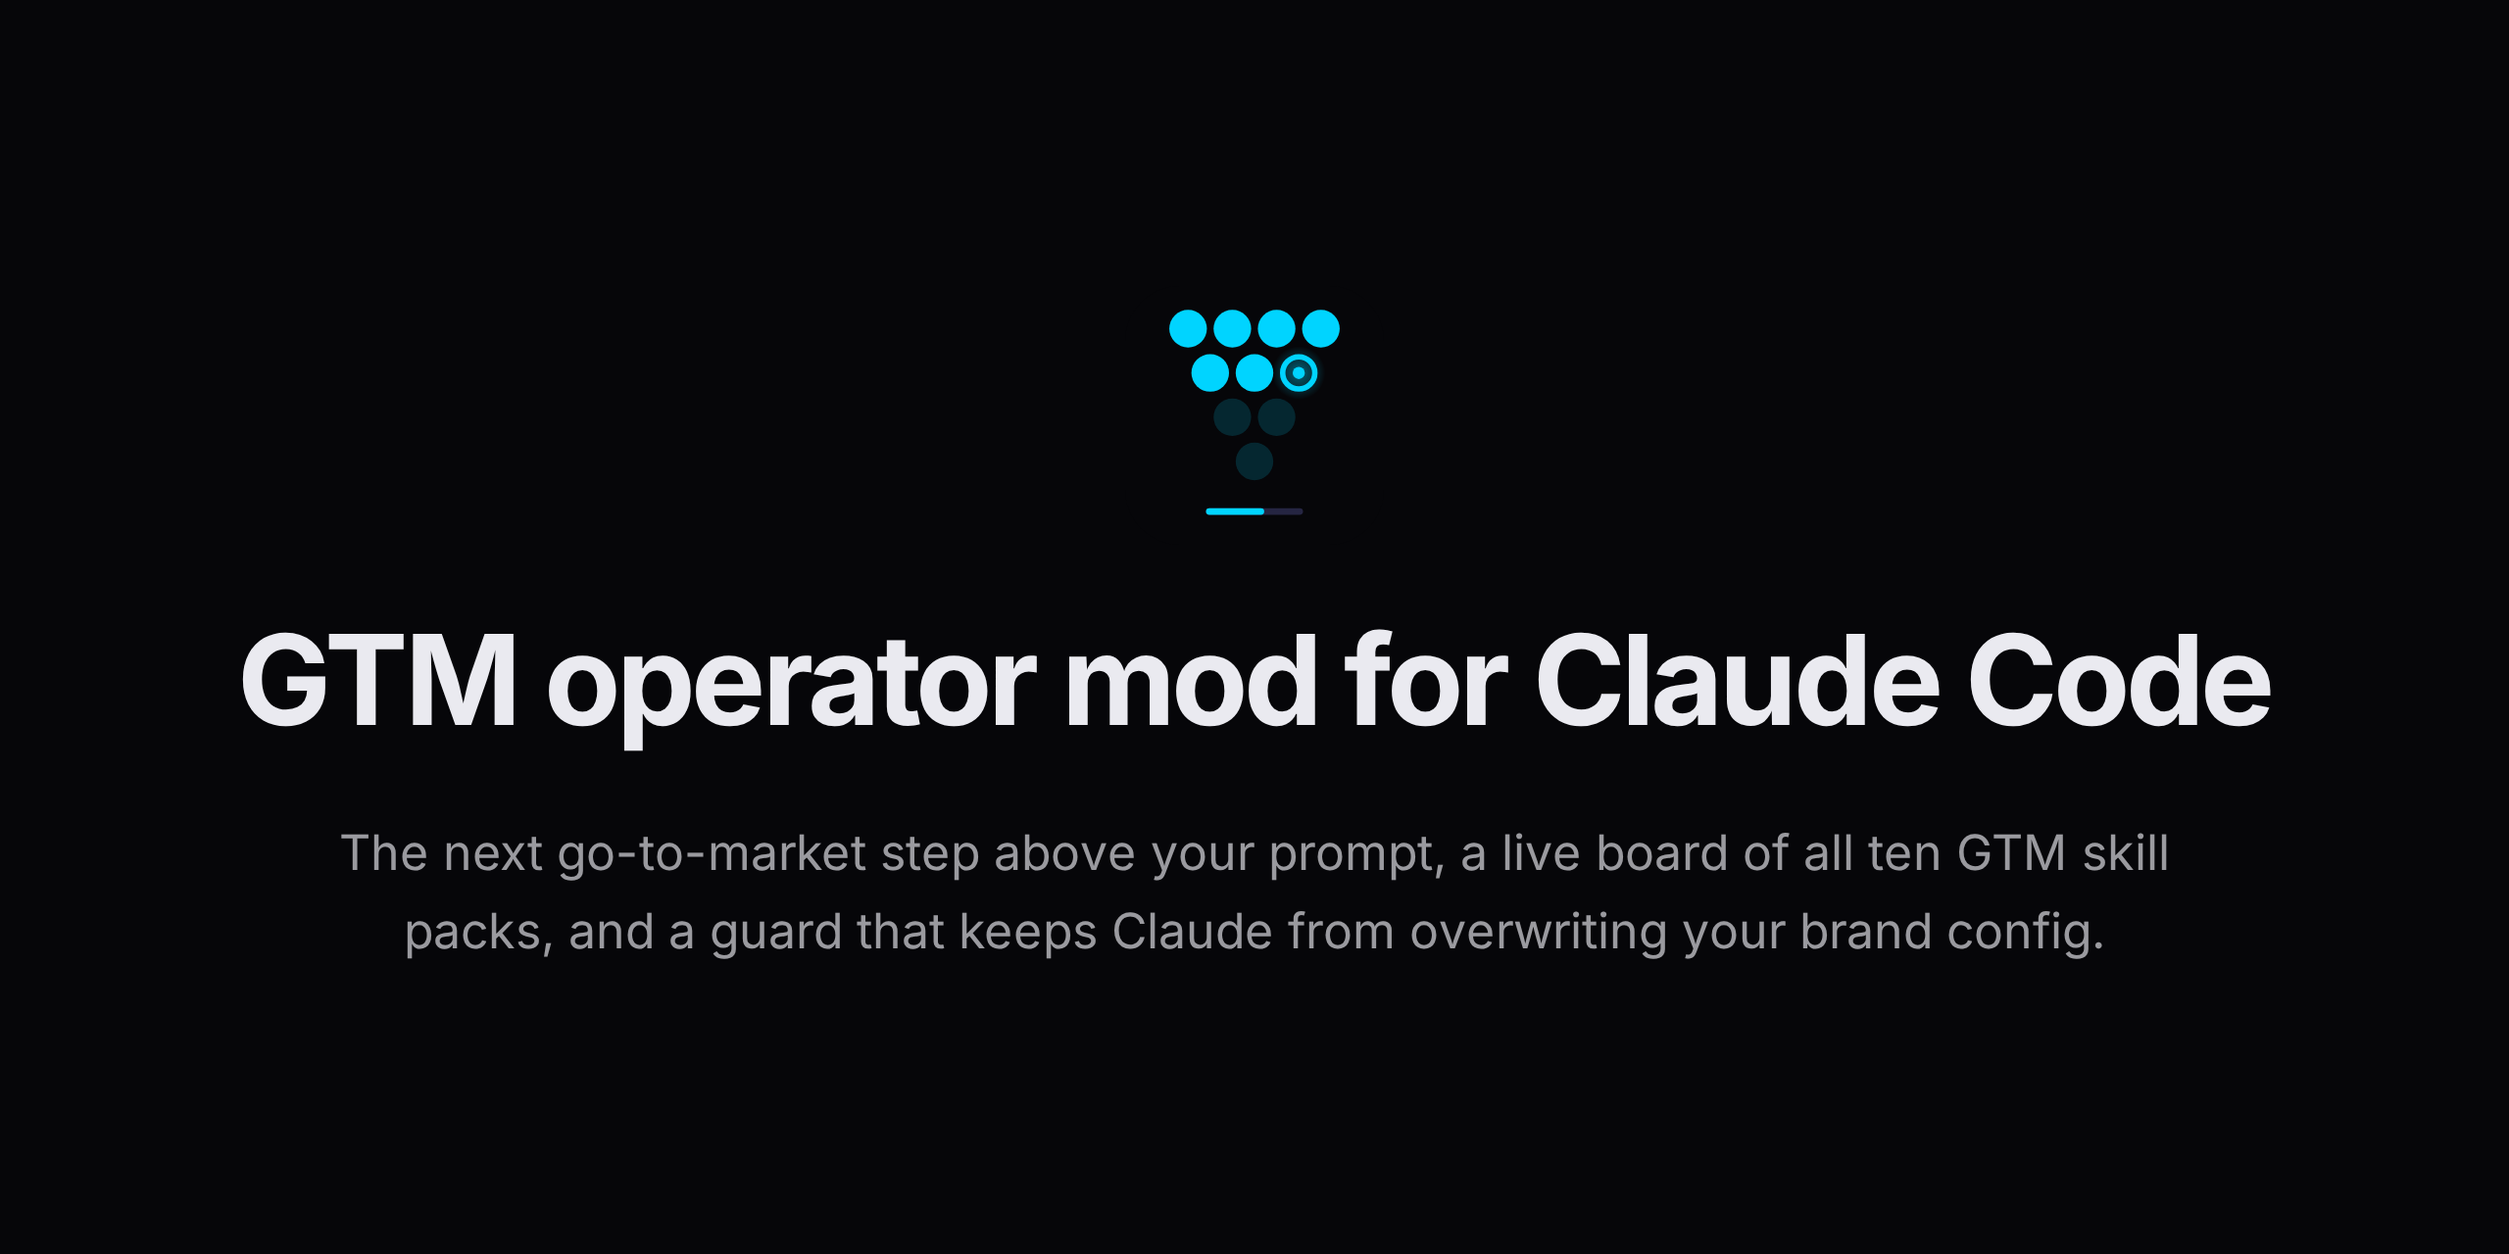
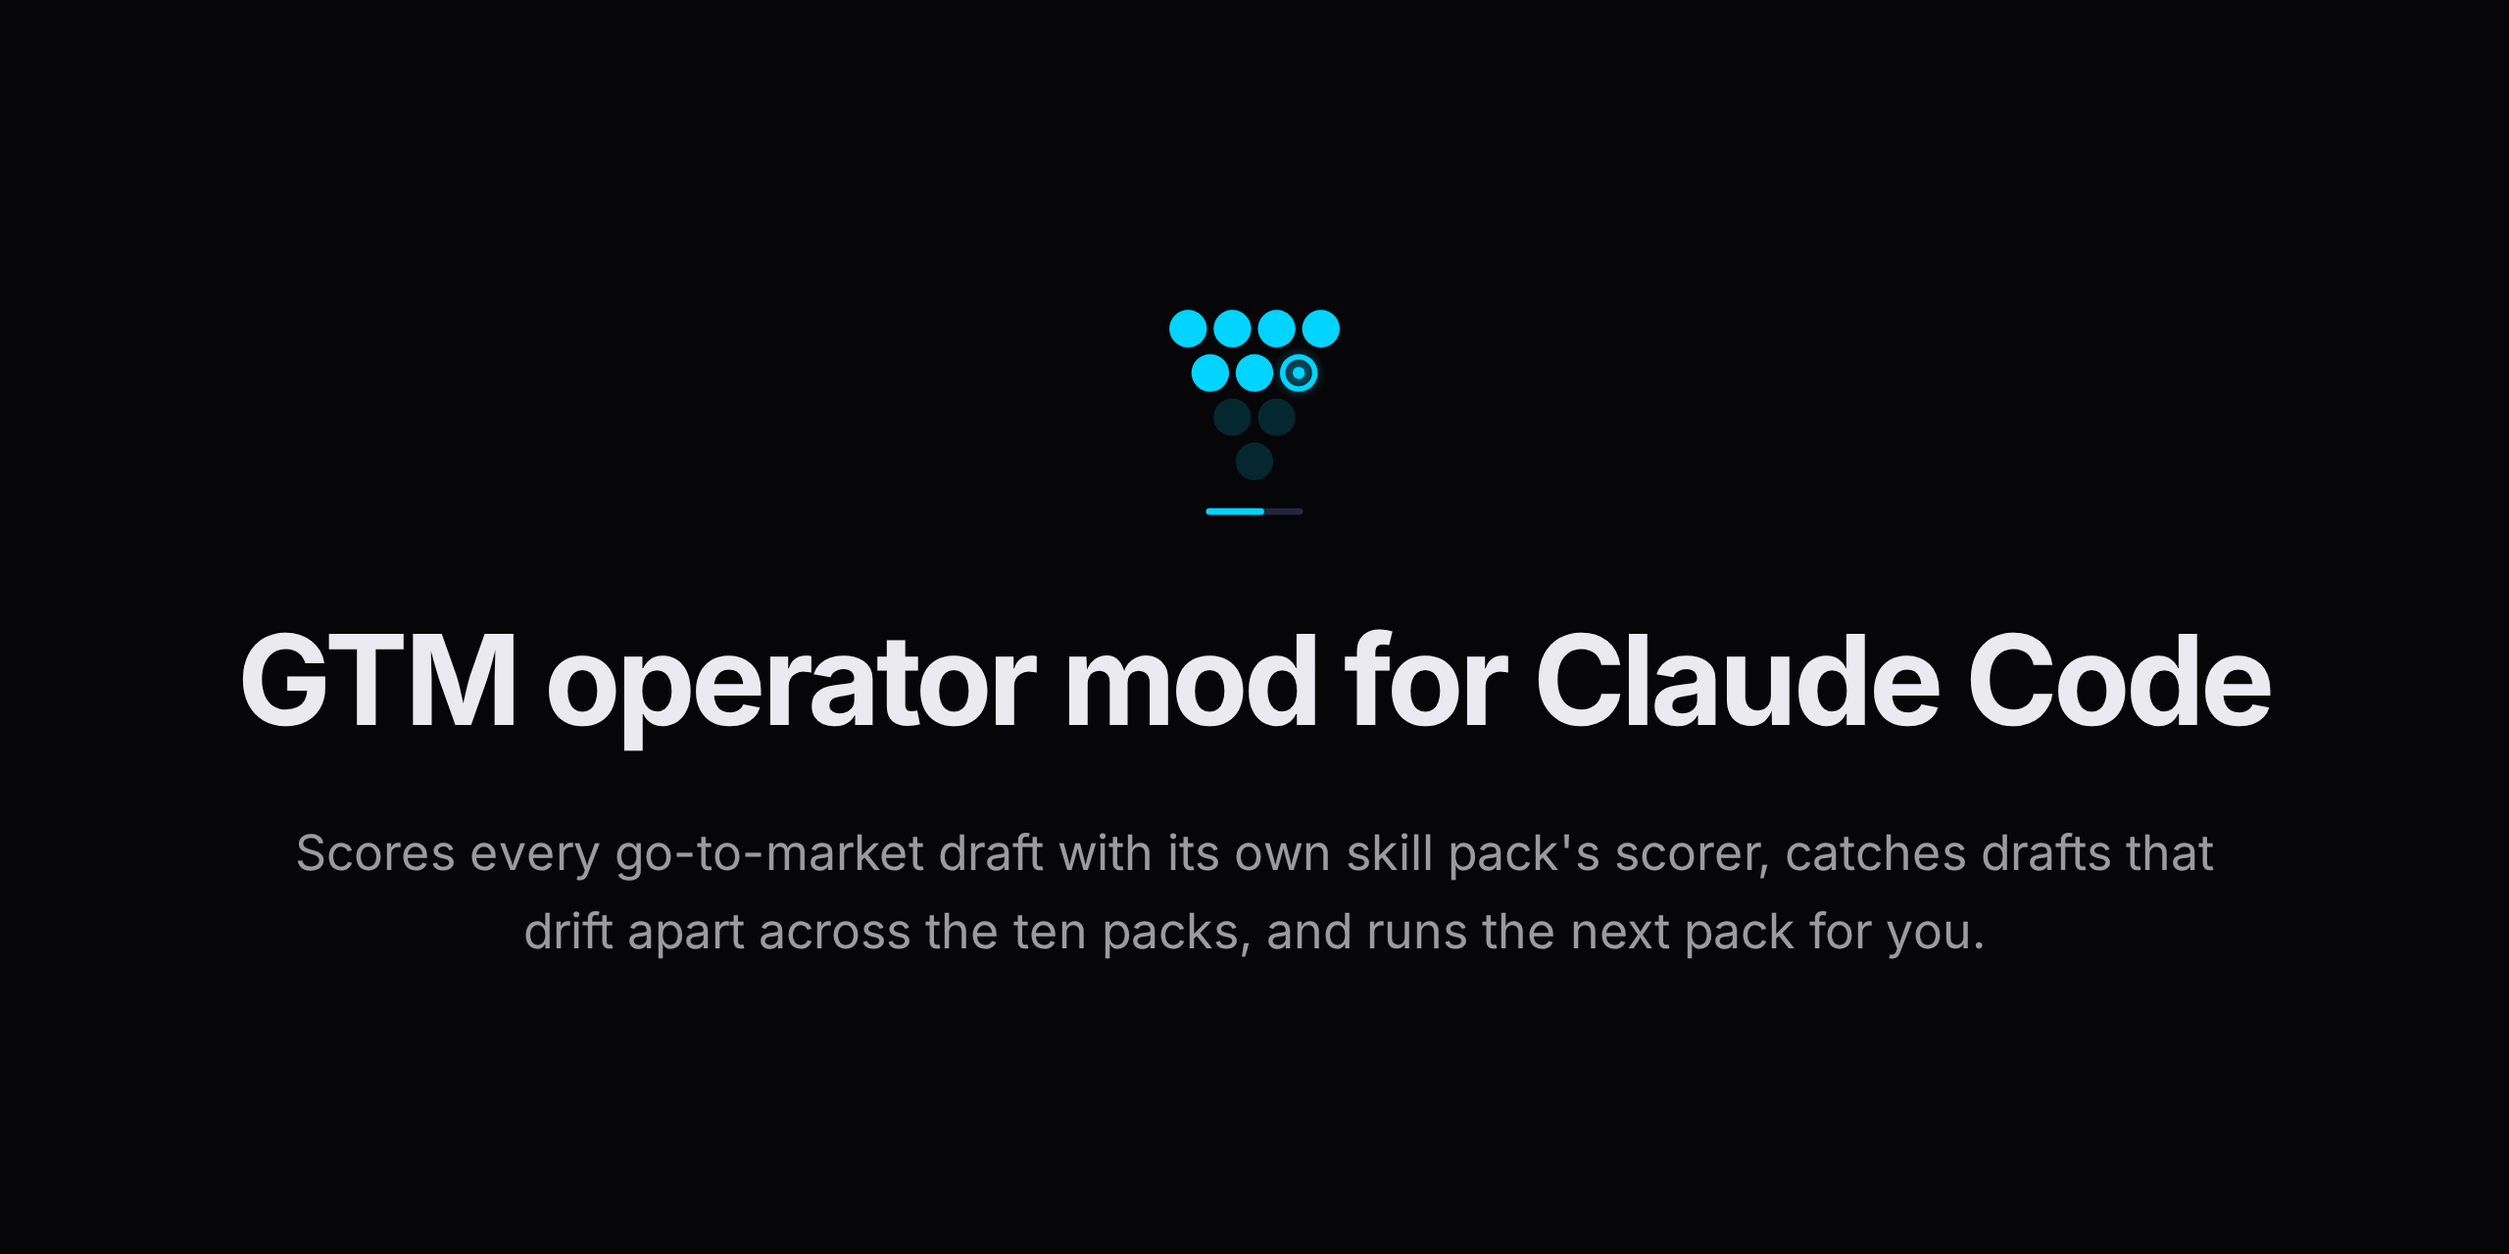
v0.5.1: headless sprint message, self-typed tool matchers, new images
Found by running v0.5.0 on a sample project with the ten packs
installed from the marketplace.

Claude-Session: https://claude.ai/code/session_01Pm2zmJAZCJi6DDWJdsKc2r

Changed region(s): [[0.125, 0.6562, 0.875, 0.7812]]

diff --git a/assets/demo.html b/assets/demo.html
@@ -9,7 +9,7 @@ html,body{width:1600px;height:900px;background:#060609;font-family:'JetBrains Mo
 .bar span{margin-left:14px}
 .main{position:absolute;top:38px;left:0;right:0;bottom:0;display:flex}
 .tx{flex:1;padding:22px 28px;display:flex;flex-direction:column}
-.side{width:500px;border-left:1px solid #1B1B2E;padding:20px 24px}
+.side{width:560px;border-left:1px solid #1B1B2E;padding:20px 24px}
 .dim{color:#6E6E86}.c{color:#00D4FF}.g{color:#10B981}.b{font-weight:700;color:#EAEAF0}.o{color:#CC4714}
 .user{color:#EAEAF0}.user:before{content:'> ';color:#6E6E86}
 .dot:before{content:'● ';color:#EAEAF0}
@@ -22,49 +22,48 @@ html,body{width:1600px;height:900px;background:#060609;font-family:'JetBrains Mo
 .status{margin-top:8px;font-size:15px}
 .ttl{color:#EAEAF0;font-weight:700;margin-bottom:10px}
 .row{white-space:pre}
-.toast{position:absolute;top:58px;right:530px;background:#14142A;border:1px solid #2E2E50;border-radius:8px;padding:10px 16px;font-size:15px;color:#EAEAF0}
+.toast{position:absolute;bottom:170px;right:600px;background:#14142A;border:1px solid #2E2E50;border-radius:8px;padding:10px 16px;font-size:15px;color:#EAEAF0}
+.tabs{display:flex;gap:14px;margin-bottom:12px;font-size:14px;white-space:nowrap}.btns{white-space:nowrap;font-size:15px}.tabs .on{color:#00D4FF;font-weight:700}.y{color:#E5B53A}.r{color:#F05252}
 </style></head><body><div class="win">
 <div class="bar"><i></i><i></i><i></i><span>~/acme · claude</span></div>
-<div class="toast">GTM: Value line (EVP) done. Next: /prospect-list:who-to-contact</div>
 <div class="main">
 <div class="tx">
-<div class="user">/evp:evp</div>
+<div class="user">/founder-brand:founder-brand a post on the hiring freeze</div>
 <div class="gap"></div>
-<div class="dot">Three lines for three readers. The outreach line:</div>
-<div class="dim">&nbsp;&nbsp;"Catch renewal risk the week a new CRO starts, not the quarter after."</div>
+<div class="dot">Write(drafts/2026-10-04-proof-hiring.md)</div>
+<div class="o">&nbsp;&nbsp;⎿ gtm-operator: this Founder posts draft scores 45 with claude-founder-brand's</div>
+<div class="o">&nbsp;&nbsp;&nbsp;&nbsp;scorer, below the minimum of 60 set for this project. Fix these:</div>
+<div class="o">&nbsp;&nbsp;&nbsp;&nbsp;- open with one of the 5 hook archetypes, e.g. the number that happened</div>
+<div class="o">&nbsp;&nbsp;&nbsp;&nbsp;- add the number, unit and timeframe from the story</div>
 <div class="gap"></div>
-<div class="dot">Write(brand-config.json)</div>
-<div class="o">&nbsp;&nbsp;⎿ gtm-operator: this write would drop or change values that already exist</div>
-<div class="o">&nbsp;&nbsp;&nbsp;&nbsp;(icp.segment, psp.signal_anchors). Ask before changing a filled field.</div>
+<div class="dot">gtm_consistency</div>
+<div class="dim">&nbsp;&nbsp;⎿ Price tiers missing from the landing page: Starter, Growth, Scale.</div>
 <div class="gap"></div>
-<div class="dot">Update(brand-config.json)</div>
-<div class="dim">&nbsp;&nbsp;⎿ Added evp.primary, evp.tier, evp.proof</div>
-<div class="gap"></div>
-<div class="dot">I kept your ICP and PSP fields and only added the EVP block.</div>
+<div class="dot">Your scorer refused the draft. I'll open on the 30-day number from</div>
+<div>&nbsp;&nbsp;SOUL.md, then fix the page's tiers after.</div>
 <div class="grow"></div>
-<div class="band"><span class="b">GTM 3/11</span><span>Next: <span class="b">/prospect-list:who-to-contact</span><span class="dim"> — no list yet</span></span><span class="btn p">[ Use ]</span><span class="btn">[ Board ]</span><span class="btn">[ Hide ]</span></div>
+<div class="band"><span class="b">GTM 9/11</span><span class="y">2 to fix</span><span class="y">4 warnings</span><span>Next: <span class="b">/prospect-list:who-to-contact</span></span><span class="btn p">[ Use ]</span><span class="btn">[ Run ]</span><span class="btn">[ Board ]</span><span class="btn">[ Hide ]</span></div>
 <div class="prompt">&nbsp;</div>
-<div class="status dim">GTM 3/11 · next /prospect-list:who-to-contact</div>
+<div class="status dim">GTM 9/11 · 2 drafts to fix · 4 warnings · next /prospect-list:who-to-contact</div>
 </div>
 <div class="side">
 <div class="ttl">GTM board</div>
-<div class="b">3/11 steps in place</div>
-<div class="row">Operator: Jay, Acme</div>
-<div class="row">Buyer: Series-B SaaS, 50-200, US</div>
-<div class="row">Pain: reps miss renewal signals</div>
-<div class="row">Value line: Catch renewal risk…</div>
+<div class="tabs"><span class="on">1 Board</span><span>2 Detail</span><span>3 Health (4)</span><span>4 Views</span><span>5 Analytics</span></div>
+<div class="row">Buyer: Series-B SaaS, $20-50M ARR</div>
+<div class="row">Value line: we ship 14+ SQLs/month…</div>
 <div class="gap"></div>
-<div class="row dim">✓ 0. Setup</div>
-<div class="row dim">✓ 1. Profile (PSP)</div>
-<div class="row dim">✓ 2. Value line (EVP)</div>
+<div class="row">✓ 1. Profile (PSP)  <span class="g">100/100</span> <span class="c">▃▅█</span></div>
+<div class="row">✓ 2. Value line (EVP)  <span class="g">100/100</span></div>
 <div class="row b">▸ 3. Prospect list  <span class="c">/prospect-list:…</span></div>
-<div class="row">· 4. First touch</div>
-<div class="row">· 5. Offer</div>
-<div class="row">· 6. Pricing</div>
-<div class="row">· 7. Landing page</div>
-<div class="row">· 8. Email sequence</div>
-<div class="row">· 9. Findability (GEO)</div>
-<div class="row">· 10. Founder posts</div>
+<div class="row">✓ 4. First touch  <span class="g">pass</span></div>
+<div class="row">· 5. Offer  <span class="dim">/sales-offer:cold-offer</span></div>
+<div class="row">✓ 6. Pricing  <span class="g">pass</span></div>
+<div class="row">✓ 7. Landing page  <span class="g">pass</span></div>
+<div class="row">✓ 8. Email sequence  <span class="g">pass</span></div>
+<div class="row"><span class="r">✗</span> 9. Findability (GEO)  <span class="r">fail · 16 fixes</span></div>
+<div class="row"><span class="r">✗</span> 10. Founder posts  <span class="r">37/100 · 9 fixes</span></div>
 <div class="gap"></div>
-<div><span class="btn p">[ Fill next ]</span> <span class="btn">[ Refresh ]</span> <span class="btn">[ Show band ]</span></div>
+<div class="row">Next: /prospect-list:who-to-contact</div>
+<div class="gap"></div>
+<div class="btns"><span class="btn p">[ Fill next ]</span> <span class="btn">[ Run next ]</span> <span class="btn">[ Sprint ]</span></div>
 </div></div></div></body></html>

diff --git a/hooks/register.tsx b/hooks/register.tsx
@@ -497,9 +497,17 @@ function runNext($: $, command: string): void {
  */
 type Launch = 'run' | 'fill'
 
+// False in a -p run or the SDK: no prompt to fill, so the command is named instead.
+let isInteractive = true
+
 async function launch($: $, how: Launch, command: string): Promise<void> {
   if (how === 'run') runNext($, command)
-  else await $.prompt.fill({ text: command })
+  else if (isInteractive) await $.prompt.fill({ text: command })
+}
+
+/** What a 'fill' launch tells the person to do with the command. */
+function handoff(command: string, verb: string): string {
+  return isInteractive ? `${command} is in your prompt; send it to ${verb}` : `run ${command} to ${verb}`
 }
 
 /** Starts a sprint at the next open step, running through `target`. */
@@ -513,7 +521,7 @@ async function startSprint($: $, settings: Settings, target: number, how: Launch
   const startedAt = await $.clock.now()
   await update($, sprint, () => ({ current: pack.id, target, startedAt }))
   await launch($, how, pack.command)
-  const first = how === 'fill' ? `${pack.command} is in your prompt; send it to start` : `${pack.name} now`
+  const first = how === 'fill' ? handoff(pack.command, 'start') : `${pack.name} now`
   return `Sprint started: ${first}, then each pack through step ${target}. A pack only runs once the one before it passes its scorer. /gtm-sprint stop ends it.`
 }
 
@@ -732,6 +740,7 @@ export const register: Register = (on, options) => {
   const settings = settingsFrom(options)
 
   on('session.start', async ($, e, next) => {
+    isInteractive = e.isInteractive
     await $.command.register({
       name: 'gtm-board',
       description: 'GTM suite board: what is done, how each draft scores, and the next pack to run',
@@ -862,7 +871,7 @@ export const register: Register = (on, options) => {
       await afterSprintTurn($, settings, 'fill')
       const now = await read($, sprint)
       if (now === null) return { text: 'GTM sprint done.' }
-      return { text: now.paused ? `Still paused: ${now.paused}.` : `GTM sprint resumed: ${packById(now.current)?.command ?? ''} is in your prompt; send it to go on.` }
+      return { text: now.paused ? `Still paused: ${now.paused}.` : `GTM sprint resumed: ${handoff(packById(now.current)?.command ?? '', 'go on')}.` }
     }
     const match = /^(?:to\s+)?(\d+)$/.exec(arg)
     const target = match ? Math.min(10, Math.max(1, Number(match[1]))) : 10

diff --git a/tests/actions.test.ts b/tests/actions.test.ts
@@ -116,6 +116,14 @@ test('the sprint runs each pack only after the one before passes', async ($, on)
   expect(project.toasts.at(-1)).toBe('GTM sprint done through step 3.')
 })
 
+test('in a -p run with no prompt to fill, /gtm-sprint names the command to run instead', async ($, on) => {
+  const project = fake(on)
+  await $.session.start({ surface: null, isInteractive: false, cwd: ROOT } as never)
+  const started = await $.command.run({ command: 'gtm-sprint', ...RUN })
+  expect(started.text).toMatch(/^Sprint started: run \/evp:evp to start, then each pack/)
+  expect(project.fills).toEqual([])
+})
+
 test('after a passing turn the sprint runs the next pack itself; a subagent turn never moves it', async ($, on) => {
   const project = fake(on)
   await $.command.run({ command: 'gtm-sprint', ...RUN })

diff --git a/assets/lockup.html b/assets/lockup.html
@@ -6,5 +6,5 @@ img{width:132px;height:132px;border-radius:28px}
 h1{color:#EAEAF0;font-size:64px;font-weight:700;letter-spacing:-.03em}
 p{color:#EAEAF0A6;font-size:25px;line-height:1.6;max-width:980px}</style></head><body><div class="c">
 <img src="logo.svg"><h1>GTM operator mod for Claude Code</h1>
-<p>The next go-to-market step above your prompt, a live board of all ten GTM skill packs, and a guard that keeps Claude from overwriting your brand config.</p>
+<p>Scores every go-to-market draft with its own skill pack's scorer, catches drafts that drift apart across the ten packs, and runs the next pack for you.</p>
 </div></body></html>

diff --git a/types/index.d.ts b/types/index.d.ts
@@ -105,4 +105,12 @@ declare module 'claude-code' {
       isGuardOff: boolean
     }
   }
+
+  // The tools this mod registers with $.tool.register, so its own tool.call
+  // matchers type-check whatever MCP servers the machine has connected.
+  interface McpToolInputs {
+    'mcp__gtm-operator__gtm_status': Record<string, never>
+    'mcp__gtm-operator__gtm_score': { pack: string }
+    'mcp__gtm-operator__gtm_consistency': Record<string, never>
+  }
 }

diff --git a/README.md b/README.md
@@ -1,5 +1,5 @@
 <p align="center">
-  <img src="./assets/lockup.png" width="880" alt="GTM operator mod for Claude Code. The next go-to-market step above your prompt, a live board of all ten GTM skill packs, and a guard that keeps Claude from overwriting your brand config.">
+  <img src="./assets/lockup.png" width="880" alt="GTM operator mod for Claude Code. Scores every go-to-market draft with its own skill pack's scorer, catches drafts that drift apart across the ten packs, and runs the next pack for you.">
 </p>
 
 # GTM operator mod for Claude Code
@@ -16,12 +16,12 @@ The GTM operator mod is a Claude Code mod that scores every go-to-market draft w
 
 The band above your prompt now reads `GTM 2/11  Next: /evp:evp — no value line yet`. Press **Use** and the command is in your prompt.
 
-Part of the GTM operator suite — `/plugin install gtm@gtm-operator-skills` installs the ten skill packs this mod tracks.
+Part of the GTM operator suite — `/plugin install gtm@gtm-operator-skills` installs the ten skill packs this mod scores.
 
 > `/gtm:next` tells you the next step when you ask. The mod tells you before you ask, and stops the write that would have cost you your ICP.
 
 <p align="center">
-  <img src="./assets/demo.png" alt="Illustration of the gtm-operator mod in a Claude Code terminal: a refused write to brand-config.json, the band above the prompt reading GTM 3/11 Next /prospect-list:who-to-contact, and the GTM board pane listing the eleven steps with three done." width="100%">
+  <img src="./assets/demo.png" alt="Illustration of the gtm-operator mod in a Claude Code terminal: the score gate refuses a founder post that scores 45 against a minimum of 60 and lists the fixes, Claude's gtm_consistency tool flags price tiers missing from the landing page, the band reads GTM 9/11, 2 to fix, 4 warnings, and the GTM board pane shows each step's score from its own pack." width="100%">
 </p>
 
 ## What it does
@@ -159,7 +159,7 @@ What `claude plugin validate .` reports, so you can review it before installing:
 ## On the site
 
 - [Skill packs catalog](https://jaymountconsulting.com/skills) — install paths + every pack
-- [GTM operator suite](https://github.com/cmj-hub/gtm-operator-skills) — the ten packs this mod tracks
+- [GTM operator suite](https://github.com/cmj-hub/gtm-operator-skills) — the ten packs this mod scores
 
 ## Free, no signup
 
@@ -186,7 +186,7 @@ tsc -p .        # after Claude Code has loaded the mod once (it writes .claude-p
 
 ## Privacy and security
 
-It saves whether you hid the band and, per project, the score history and the outcomes you log, in Claude Code's plugin store under `~/.claude/plugins/store/`. Scoring runs the packs' own Python scorers on your machine; they read your draft and print JSON, with no network. Each turn it adds a short section to Claude's system prompt with the suite's state; that text comes from your own files. No network, no telemetry, no credentials. See [SECURITY.md](SECURITY.md).
+It saves whether you hid the band and, per project, the score history and the outcomes you log, in Claude Code's plugin store under `~/.claude/plugins/store/`. Scoring runs the packs' own Python scorers on your machine; they read your draft and print JSON, with no network. Each turn it adds a short section to Claude's system prompt with the suite's state; that text comes from your own files. No network unless you press **Check deliverability** (DNS lookups with `dig`), no telemetry, no credentials. See [SECURITY.md](SECURITY.md).
 
 ## License
 

diff --git a/CHANGELOG.md b/CHANGELOG.md
@@ -1,5 +1,16 @@
 # Changelog
 
+## [0.5.1] — 2026-10-05
+
+Found by running v0.5.0 on a sample project with the ten packs installed from the marketplace.
+
+### Fixed
+- `/gtm-sprint` and `/gtm-sprint resume` in a `-p` run or the SDK no longer say the command is in your prompt (there is none); they name the command to run.
+- The type contract declares the mod's own three tools, so its `tool.call` matchers type-check whatever MCP servers the machine has connected.
+
+### Changed
+- New demo, lockup and social images showing scores, the score gate and cross-pack warnings; README says when the mod uses the network (only the deliverability button).
+
 ## [0.5.0] — 2026-10-05
 
 Actions and analytics.
